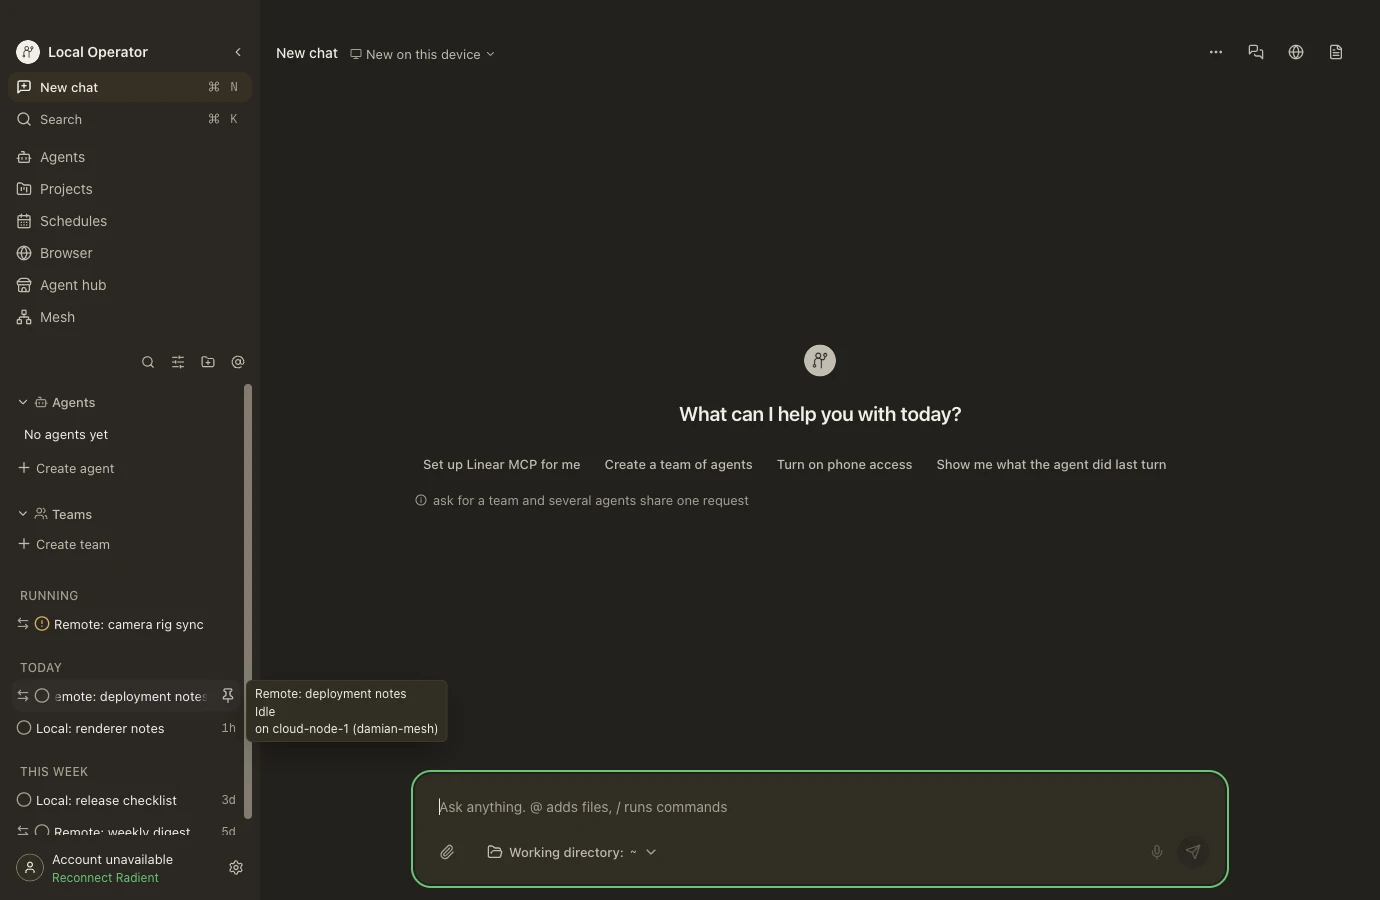
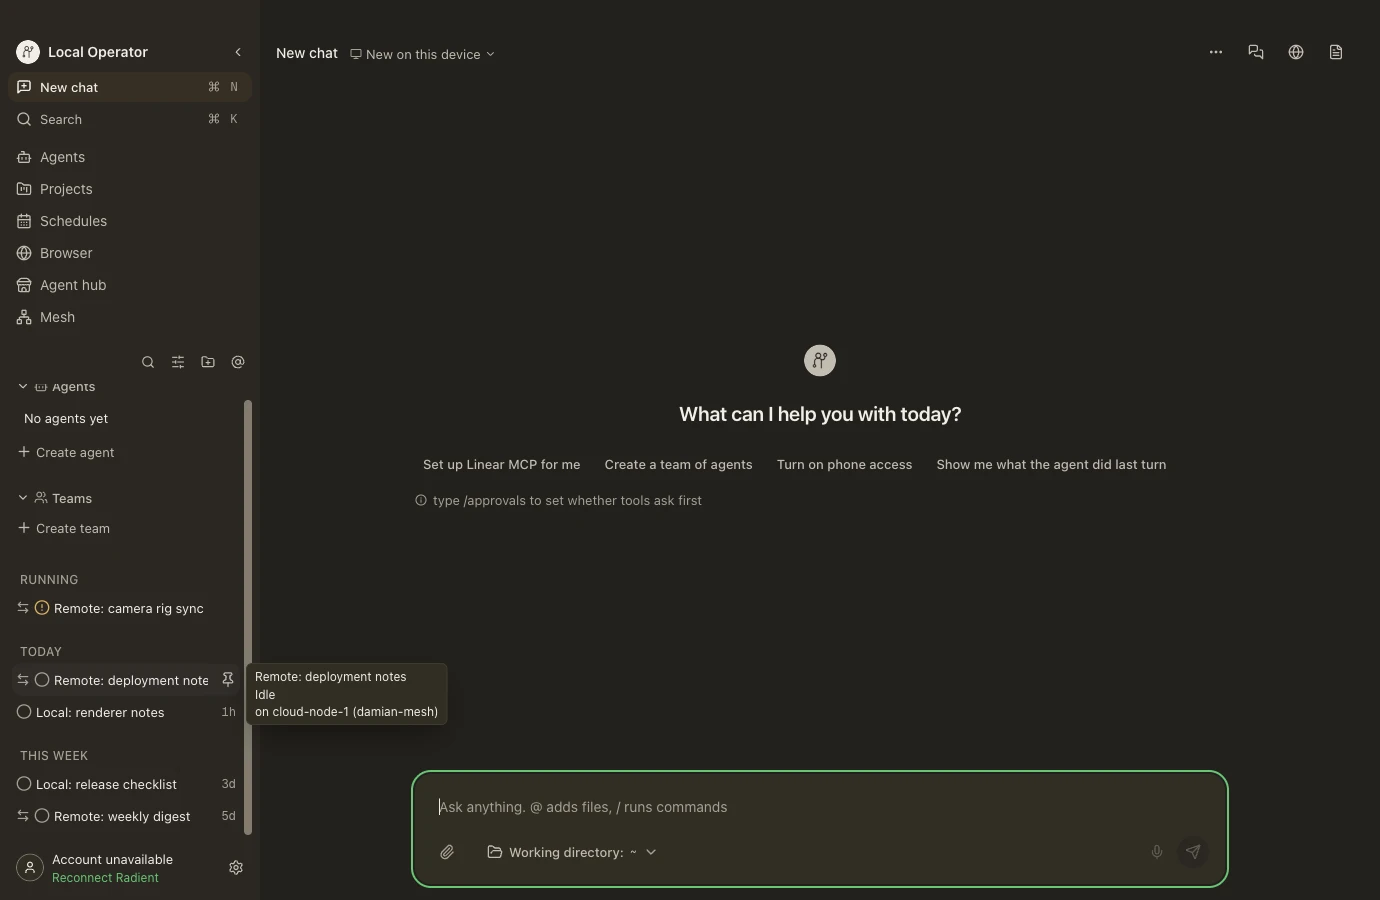
docs(evidence): the sidebar-remote set's frames, README and manifest entry
Six frames on one palette: the base tree's sidebar (local rows only) and
this branch's four states (merged bins, the flyout reading
`on cloud-node-1 (damian-mesh)`, and the opened conversation's chip
`On cloud-node-1`). The entry carries the readings both arms asserted -
three remotely-held fixture rows present/absent, 0/3 marks, 0/2 federated
reads (30009 ms apart on the fixed tree), 10 plain polls none of which
carry include_peers with all five titles surviving them - and the live
arm's readings against the operator's own pairing, whose frames stay out
of the repository because they carry his real conversation titles.

Changed region(s): [[0.0, 0.4044, 0.3116, 0.9333], [0.3116, 0.5289, 0.5297, 0.56]]

diff --git a/docs/evidence/sidebar-remote/README.md b/docs/evidence/sidebar-remote/README.md
@@ -1,0 +1,130 @@
+# sidebar-remote — remote sessions as first-class sidebar rows
+
+The operator's report (2026-10-05), verbatim: *"make sure remote sessions on the
+connected network(s) show up under Running, Today, Pinned, This Week, etc — it
+should be listed seamlessly together with local sessions but just have an
+icon/indicator to indicate that it's running on a remote device, and on hover it
+will read out which remote device and network that session is on."* — with the
+repro context that his open conversation's header read `On cloud-node-1` while
+the sidebar listed only local rows.
+
+This set photographs both halves. `before` is the base tree: the remote
+sessions exist only in the federated answer (`sessions.list?include_peers=true`)
+and the sidebar draws its local rows alone. `after` is the fixed tree: the same
+fixture rows render in the sidebar's own bins — Running / Today / This week —
+beside the local ones, each with the locality mark, and the hover reads
+`on cloud-node-1 (damian-mesh)`. Every frame is the app photographing itself
+(`Page.captureScreenshot`).
+
+## The instrument
+
+`harness/drive.mjs` boots the BUILT app (`out/main`, `--window-mode=headless`,
+never shown or focused) with scratch HOME, config, log and profile roots, the
+`CMUX_*`/`LOP_*` families stripped and the mock-keychain switch taken from its
+one home. `harness/server.mjs` is the endpoint it talks to: the catalogue BOTH
+ways — plain (local rows only) and with `include_peers=true` (the local rows
+plus three fixture rows on `cloud-node-1`: one `approval` for RUNNING, one an
+hour old, one five days old) — plus the two cheap mesh reads and a minimal
+session stream, fixtures in the wire's own shape. The app's transport, store,
+merge, mark, hover and bins are the shipped ones.
+
+Each arm asserts its own readings, so the pair cannot pass by both being loose:
+`before` checks the three remote titles are ABSENT, zero `[data-remote-mark]`
+elements are drawn, and the wire shows NO federated read; `after` checks all
+five titles are present, three marks are drawn, each remote row's own
+`[data-chat-section]` bin is `running`/`today`/`week` as its clock says, the
+sections list contains no remote-specific section, the flyout sentence matches,
+the opened conversation's chip reads `On cloud-node-1`, and the wire shows the
+federated read only at `limit=200` while every plain poll stays peer-free.
+
+The `after` arm also holds for one full ambient cycle: it waits for the SECOND
+federated read (measuring the interval), checks that plain catalogue polls ran
+in between, and re-reads the list — which is the mechanism the store's suite
+pins in isolation (`scripts/peers-catalogue.test.mjs`: a remote row survives
+plain pages only because the federated answer wrote its placement fact), here
+observed in the assembled app.
+
+**Build mode, disclosed:** both arms were built with
+`LOCAL_OPERATOR_UI_NO_BYTECODE=true` — the config's own npm-publish mode —
+because the local V8-bytecode step cannot resolve its Babel plugin out of this
+pnpm layout (`@babel/plugin-transform-arrow-functions` resolves from
+`electron-vite`'s directory, and Babel resolves inline plugins from the cwd's
+`node_modules`, where no pnpm tree links it). The renderer bundle is the code
+under review either way, and both arms share the mode, so the pair is
+like-for-like.
+
+**What was and was not driven live.** The committed arms run against the set's
+own fixture endpoint — no second real device exists in those runs (the same
+disclosure the sibling sets carry). `harness/proxy.mjs` adds a pass-through in
+front of a REAL daemon so a live arm can run read-only with the wire still
+readable (`--arm live --expect-remote present|missing`, `--daemon`, and the
+daemon's token file, passed only through the app's documented
+`LOCAL_OPERATOR_DESKTOP_TOKEN` environment). That arm was run against the
+operator's own pairing on 2026-10-05 (both builds; frames kept in the
+scratchpad, not the repository, because they carry his real conversation
+titles):
+
+- `missing` (base `cb8bebd48b1`), 15 rows drawn, `[data-remote-mark]` 0; the
+  wire carried ZERO `include_peers` reads before the Mesh tab was opened (the
+  tab's own read is the first one, `limit=200`); a frame of the tab beside that
+  sidebar shows `cloud-node-1` reachable with **14 conversations** the sidebar
+  does not list;
+- `present` (this branch), 15 rows drawn, `[data-remote-mark]` 3 — his two most
+  recent `cloud-node-1` sessions (`Current OS inquiry`, `Current Operating
+  System Inquiry`, both `Answer needed`) merged into RUNNING beside his local
+  ones; the hover reads `on cloud-node-1 (damian-mesh)`; opening one leaves the
+  header chip reading `On cloud-node-1`; the wire: 1 federated read (`limit=200`)
+  and 5 plain polls, none of them carrying `include_peers`.
+
+## How to run
+
+```sh
+# THE BASE TREE — the operator's defect (remote rows exist, the sidebar cannot
+# list them; the wire never asks for peers). Both arms need a build FIRST, from
+# the tree under test:
+LOCAL_OPERATOR_UI_NO_BYTECODE=true pnpm build
+node docs/evidence/sidebar-remote/harness/drive.mjs --arm before
+
+# THE FIXED TREE — merged bins, the mark, the hover, the chip, and the hold
+node docs/evidence/sidebar-remote/harness/drive.mjs --arm after
+
+# THE LIVE ARM (read-only; frames land in the scratchpad)
+node docs/evidence/sidebar-remote/harness/drive.mjs --arm live \
+  --expect-remote present --daemon http://127.0.0.1:1111
+```
+
+```
+sidebar-remote/before/sidebar/localOperatorDark.webp         the sidebar, local rows only
+sidebar-remote/before/sidebar-detail/localOperatorDark.webp  the same, clipped to the panel
+sidebar-remote/after/sidebar/localOperatorDark.webp          remote rows merged into the bins
+sidebar-remote/after/sidebar-detail/localOperatorDark.webp   the same, clipped to the panel
+sidebar-remote/after/hover/localOperatorDark.webp            the flyout: on cloud-node-1 (damian-mesh)
+sidebar-remote/after/open/localOperatorDark.webp             opened: header chip + the row in its bin
+```
+
+## Readings (this pass, `localOperatorDark`)
+
+| reading | before (base) | after (this branch) |
+| --- | --- | --- |
+| sections drawn | today: 1 local; week: 1 local | running: 1 remote; today: 1 remote + 1 local; week: 1 local + 1 remote |
+| `[data-remote-mark]` | 0 | 3 |
+| separate remote section | none (nothing) | none — the sections are the one list's own |
+| flyout sentence | — | `on cloud-node-1 (damian-mesh)` |
+| opened conversation's chip | — | `On cloud-node-1`, row still in its bin |
+| federated reads | 0 | 2 (`limit=200`, 30009 ms apart) |
+| plain catalogue polls | 2, none carrying `include_peers` | 10, none carrying `include_peers` |
+| remote rows after plain polls | — | all five titles still listed |
+
+## Not addressed here
+
+- **Pinned draws no remote row yet**, and that is the wire's honest state rather
+  than a rendering choice: the pin index is device-local and prunes ids with no
+  local session directory, so a remote row reads `pinned: false` until an
+  owner's pins are forwarded (deferred; `settlePeerCatalogue`'s note records
+  it). The live pass confirms it — four pinned rows, all local.
+- **Pin/delete/archive pressed on a remote row** address the local daemon and
+  are refused with its own sentence; the sidebar's merge does not change which
+  daemon those routes reach. Out of this slice's scope.
+- The fixture arms' `Account unavailable / Reconnect Radient` notice is the
+  fixture endpoint not modelling the credits service; it is identical in both
+  arms and outside the surfaces under test.
